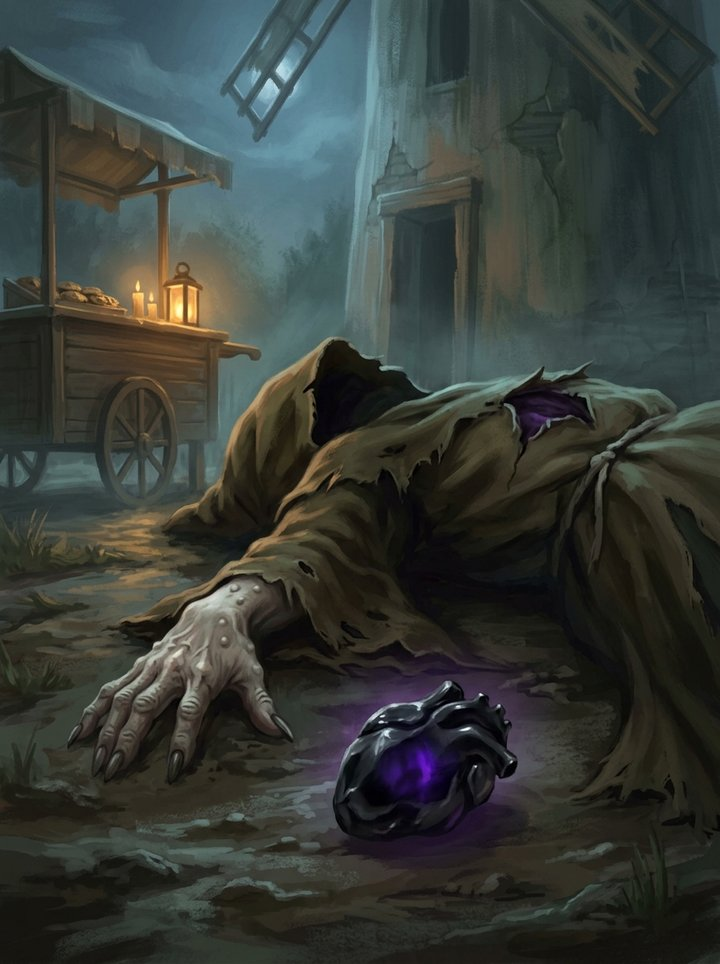
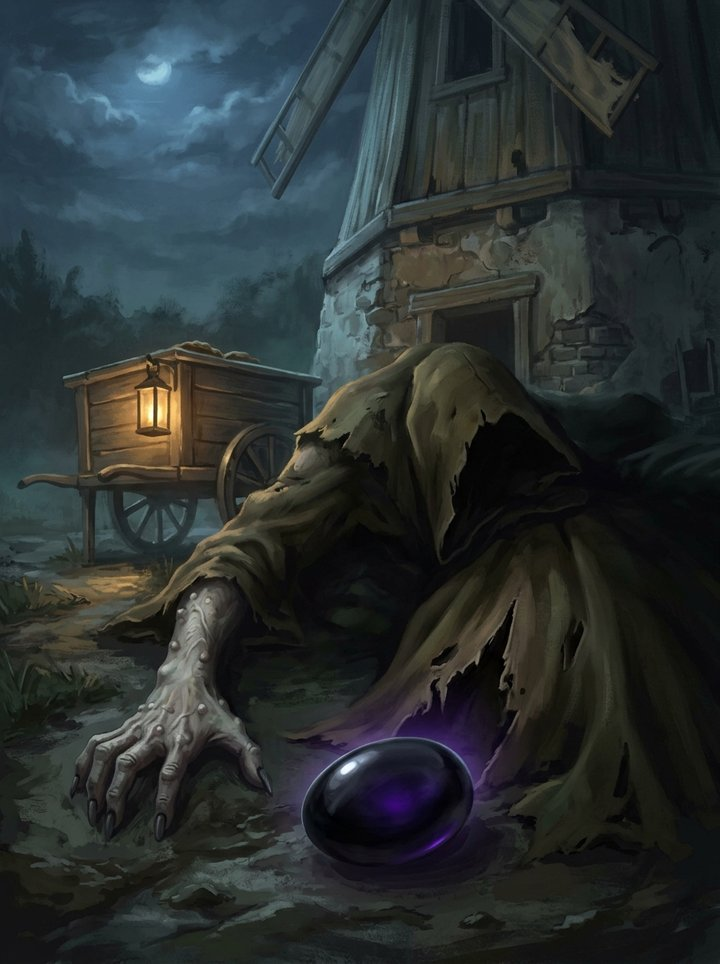
Repaint the heart stone as a plain black onyx stone (#111)
Chris saw that both new pictures drew the stone as a heart or organ. The
hag picture (A) now shows an egg-sized polished onyx oval and passed a
blind look check. The cellar picture (C) is repainted the same way, with
the extra dagger edited out.

Claude-Session: https://claude.ai/code/session_01U8i5qVJGV1gJ4XGQEHKUt5

diff --git a/content/posts/2025-01-14-the-hunt-for-the-heart-stone.md b/content/posts/2025-01-14-the-hunt-for-the-heart-stone.md
@@ -20,7 +20,7 @@ Victor taught us the ways to take a heart stone from a hag, and we laid a plan t
 
 On the way we met a druid of the Forest Folk, hermits of the Svalich Woods who shun the towns. They hold Yester Hill, at the southwest edge of the valley, sacred, and they worship Strahd as a god for his power over the land and weather.
 
-![A beaten hag lies by the windmill's pie cart, and her black onyx heart stone has slipped from a tear in her robe onto the mud](/images/heart-stone-ai.jpg)
+![A beaten hag lies by the windmill's pie cart, and her black onyx heart stone, an egg-sized polished oval, has slipped from her robe onto the mud](/images/heart-stone-ai.jpg)
 
 *AI-generated image (Google Gemini, November 2026). Not official art.*
 

diff --git a/content/wiki/heart-stone.md b/content/wiki/heart-stone.md
@@ -7,7 +7,7 @@ source: Compiled from the adventure log
 
 ## Description
 
-![A beaten hag lies by the windmill's pie cart, and her black onyx heart stone has slipped from a tear in her robe onto the mud](/images/heart-stone-ai.jpg)
+![A beaten hag lies by the windmill's pie cart, and her black onyx heart stone, an egg-sized polished oval, has slipped from her robe onto the mud](/images/heart-stone-ai.jpg)
 
 *AI-generated image (Google Gemini, November 2026), drawn from this page and the session logs. Not official art.*
 
